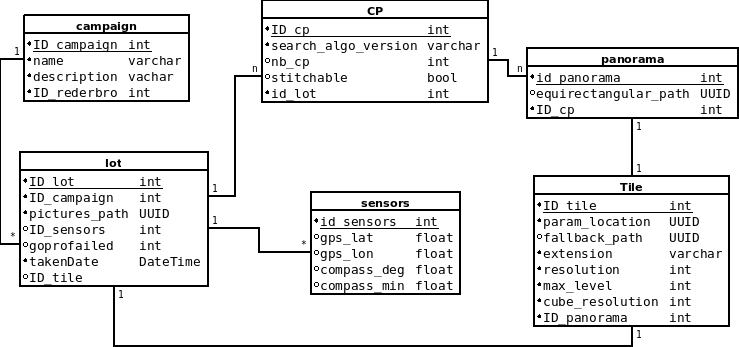
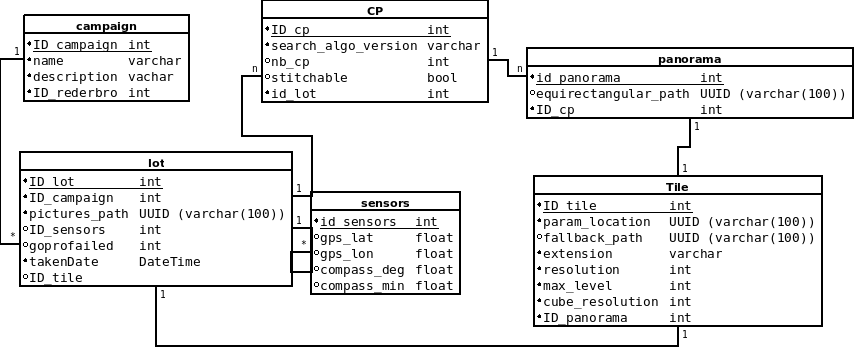
Changing UUID to strings (varchar(100))

diff --git a/api/server.py b/api/server.py
@@ -48,7 +48,7 @@ class Sensors(db.Model):
 
 class Lot(db.Model):
     id_lot = db.Column(db.Integer, primary_key=True)
-    pictures_path = db.Column(db.Integer, nullable=False)
+    pictures_path = db.Column(db.String(100), nullable=False)
     goprofailed = db.Column(db.Integer, nullable=False)
     takenDate = db.Column(db.DateTime, nullable=False)
 
@@ -73,15 +73,15 @@ class Cp(db.Model):
 
 class Panorama(db.Model):
     id_panorama = db.Column(db.Integer, primary_key=True)
-    equirectangular_path = db.Column(db.Integer)
+    equirectangular_path = db.Column(db.String(100))
 
     id_cp = db.Column(db.Integer, db.ForeignKey('cp.id_cp'), nullable=False)
     cp = db.relationship(Cp, backref=backref('panorama', lazy='dynamic'))
 
 class Tile(db.Model):
     id_tile = db.Column(db.Integer, primary_key=True)
-    param_location = db.Column(db.Integer, nullable=False)
-    fallback_path = db.Column(db.Integer, nullable=False)
+    param_location = db.Column(db.String(100), nullable=False)
+    fallback_path = db.Column(db.String(100), nullable=False)
     extension = db.Column(db.String(5), nullable=False)
     resolution = db.Column(db.Integer, nullable=False)
     max_level = db.Column(db.Integer, nullable=False)
